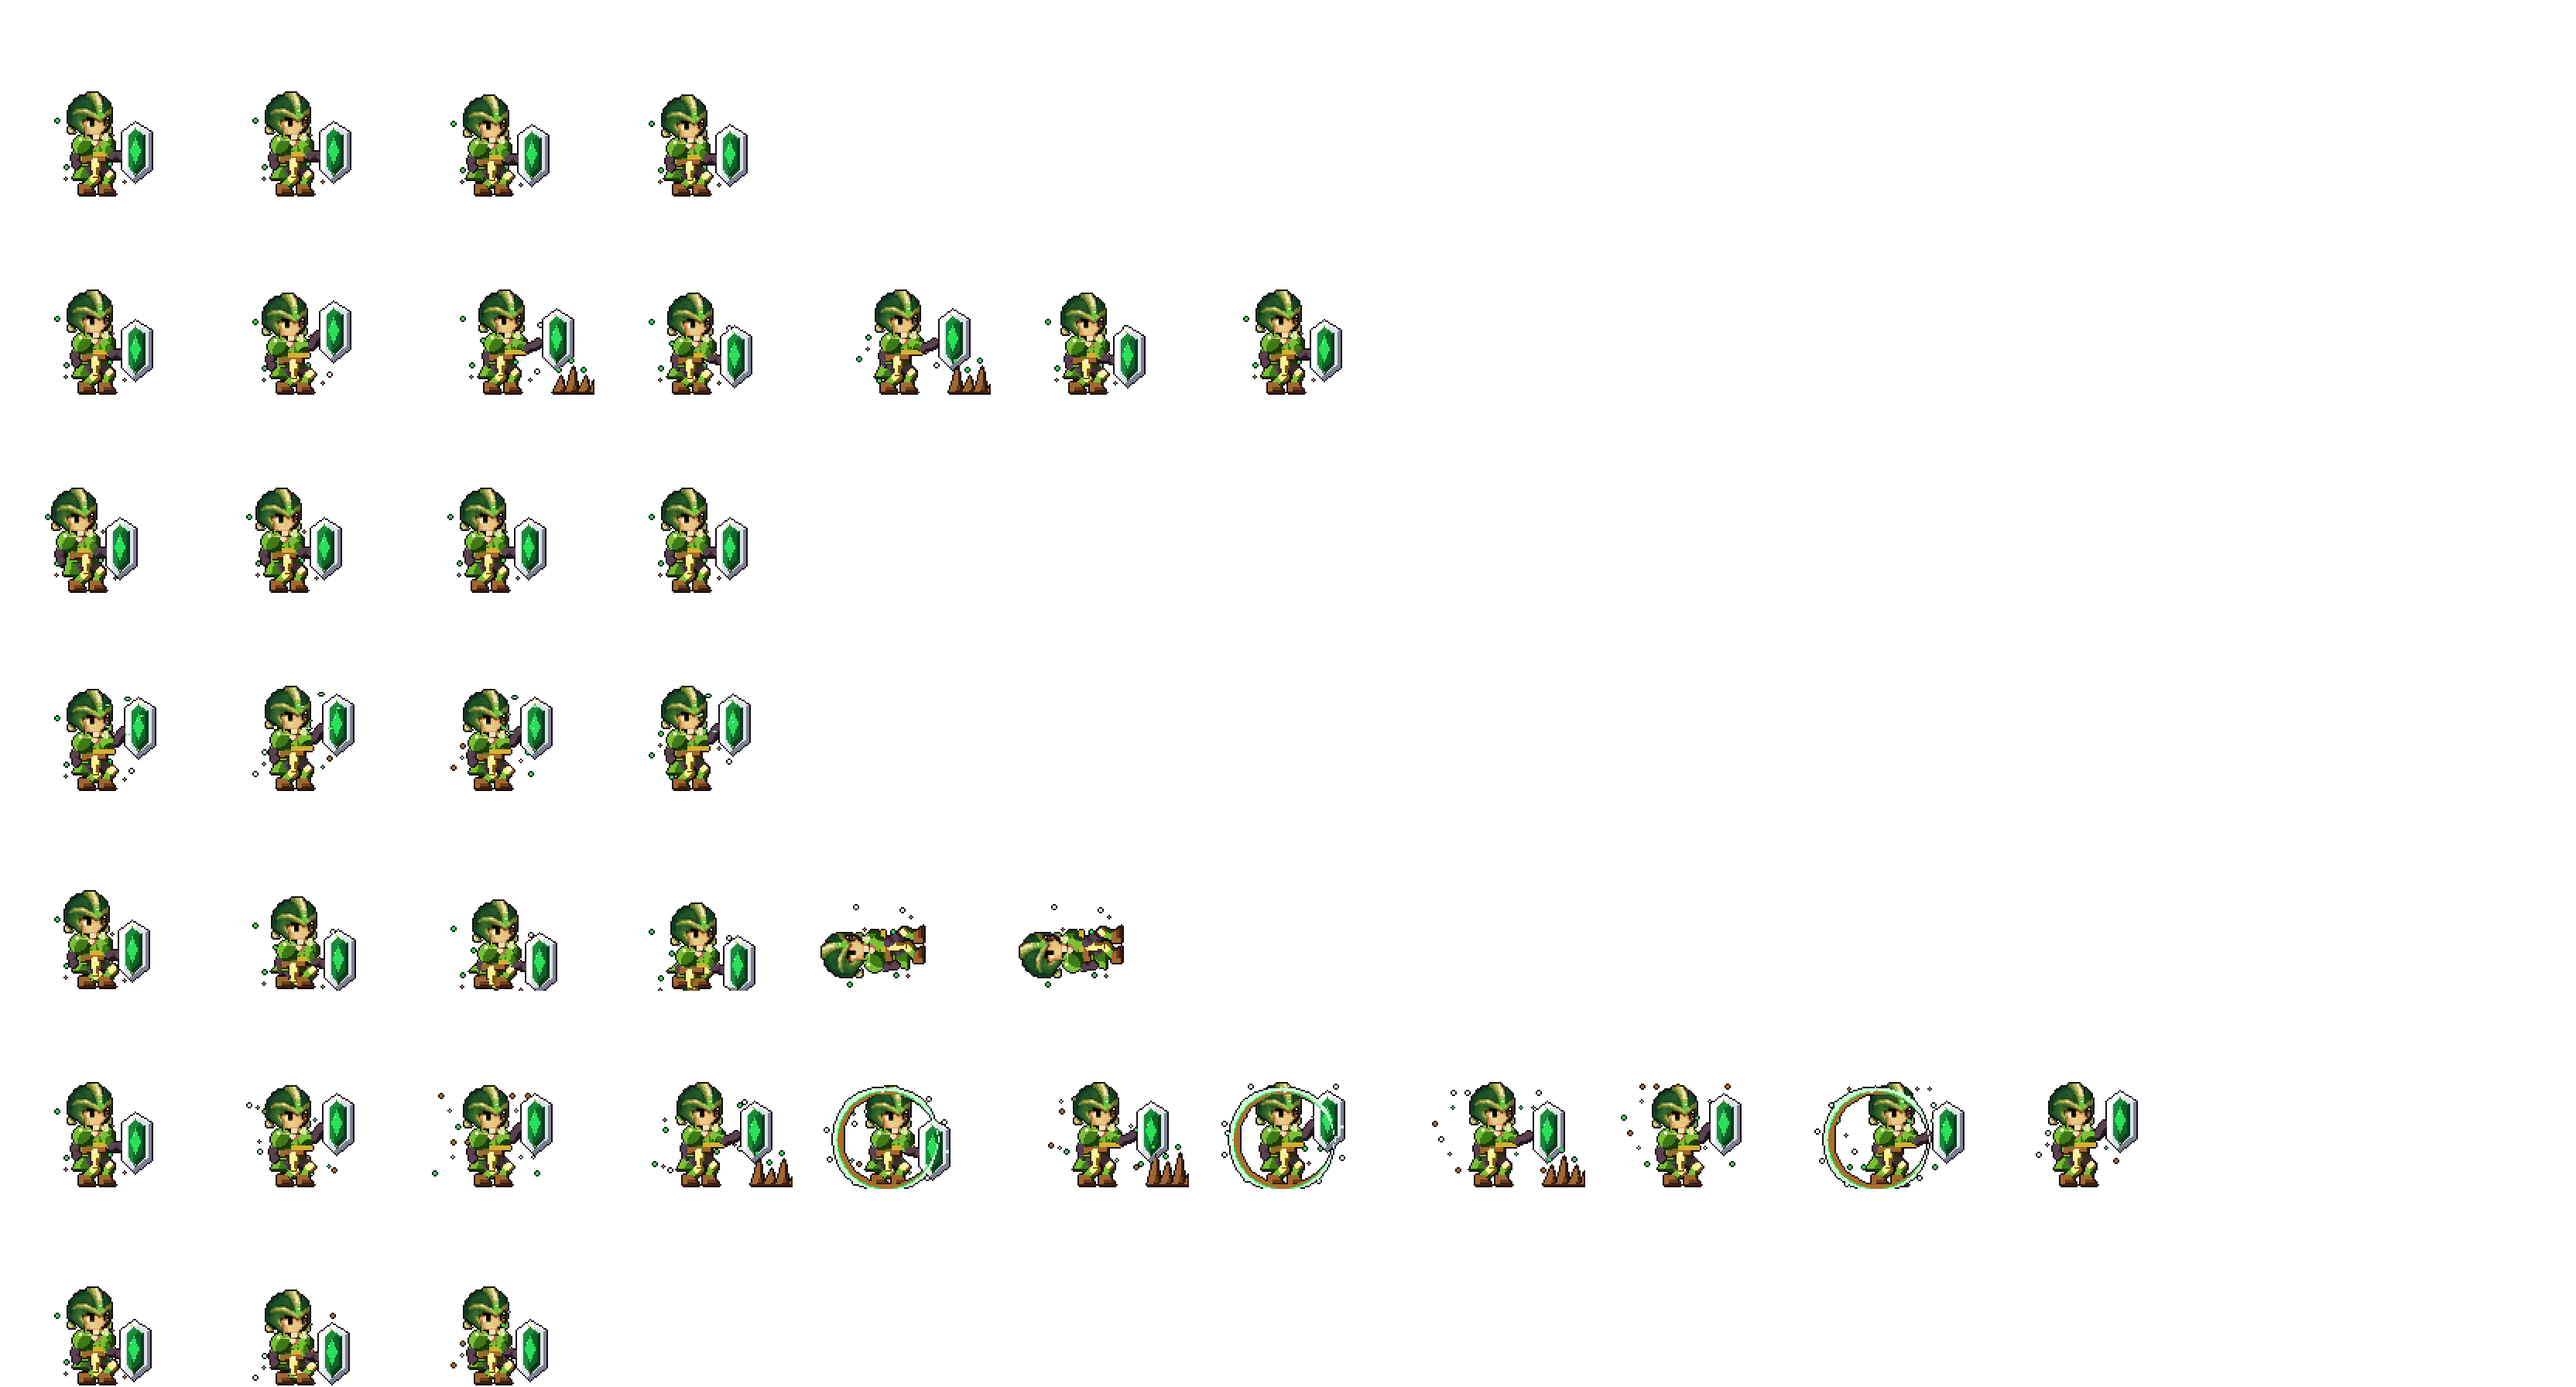
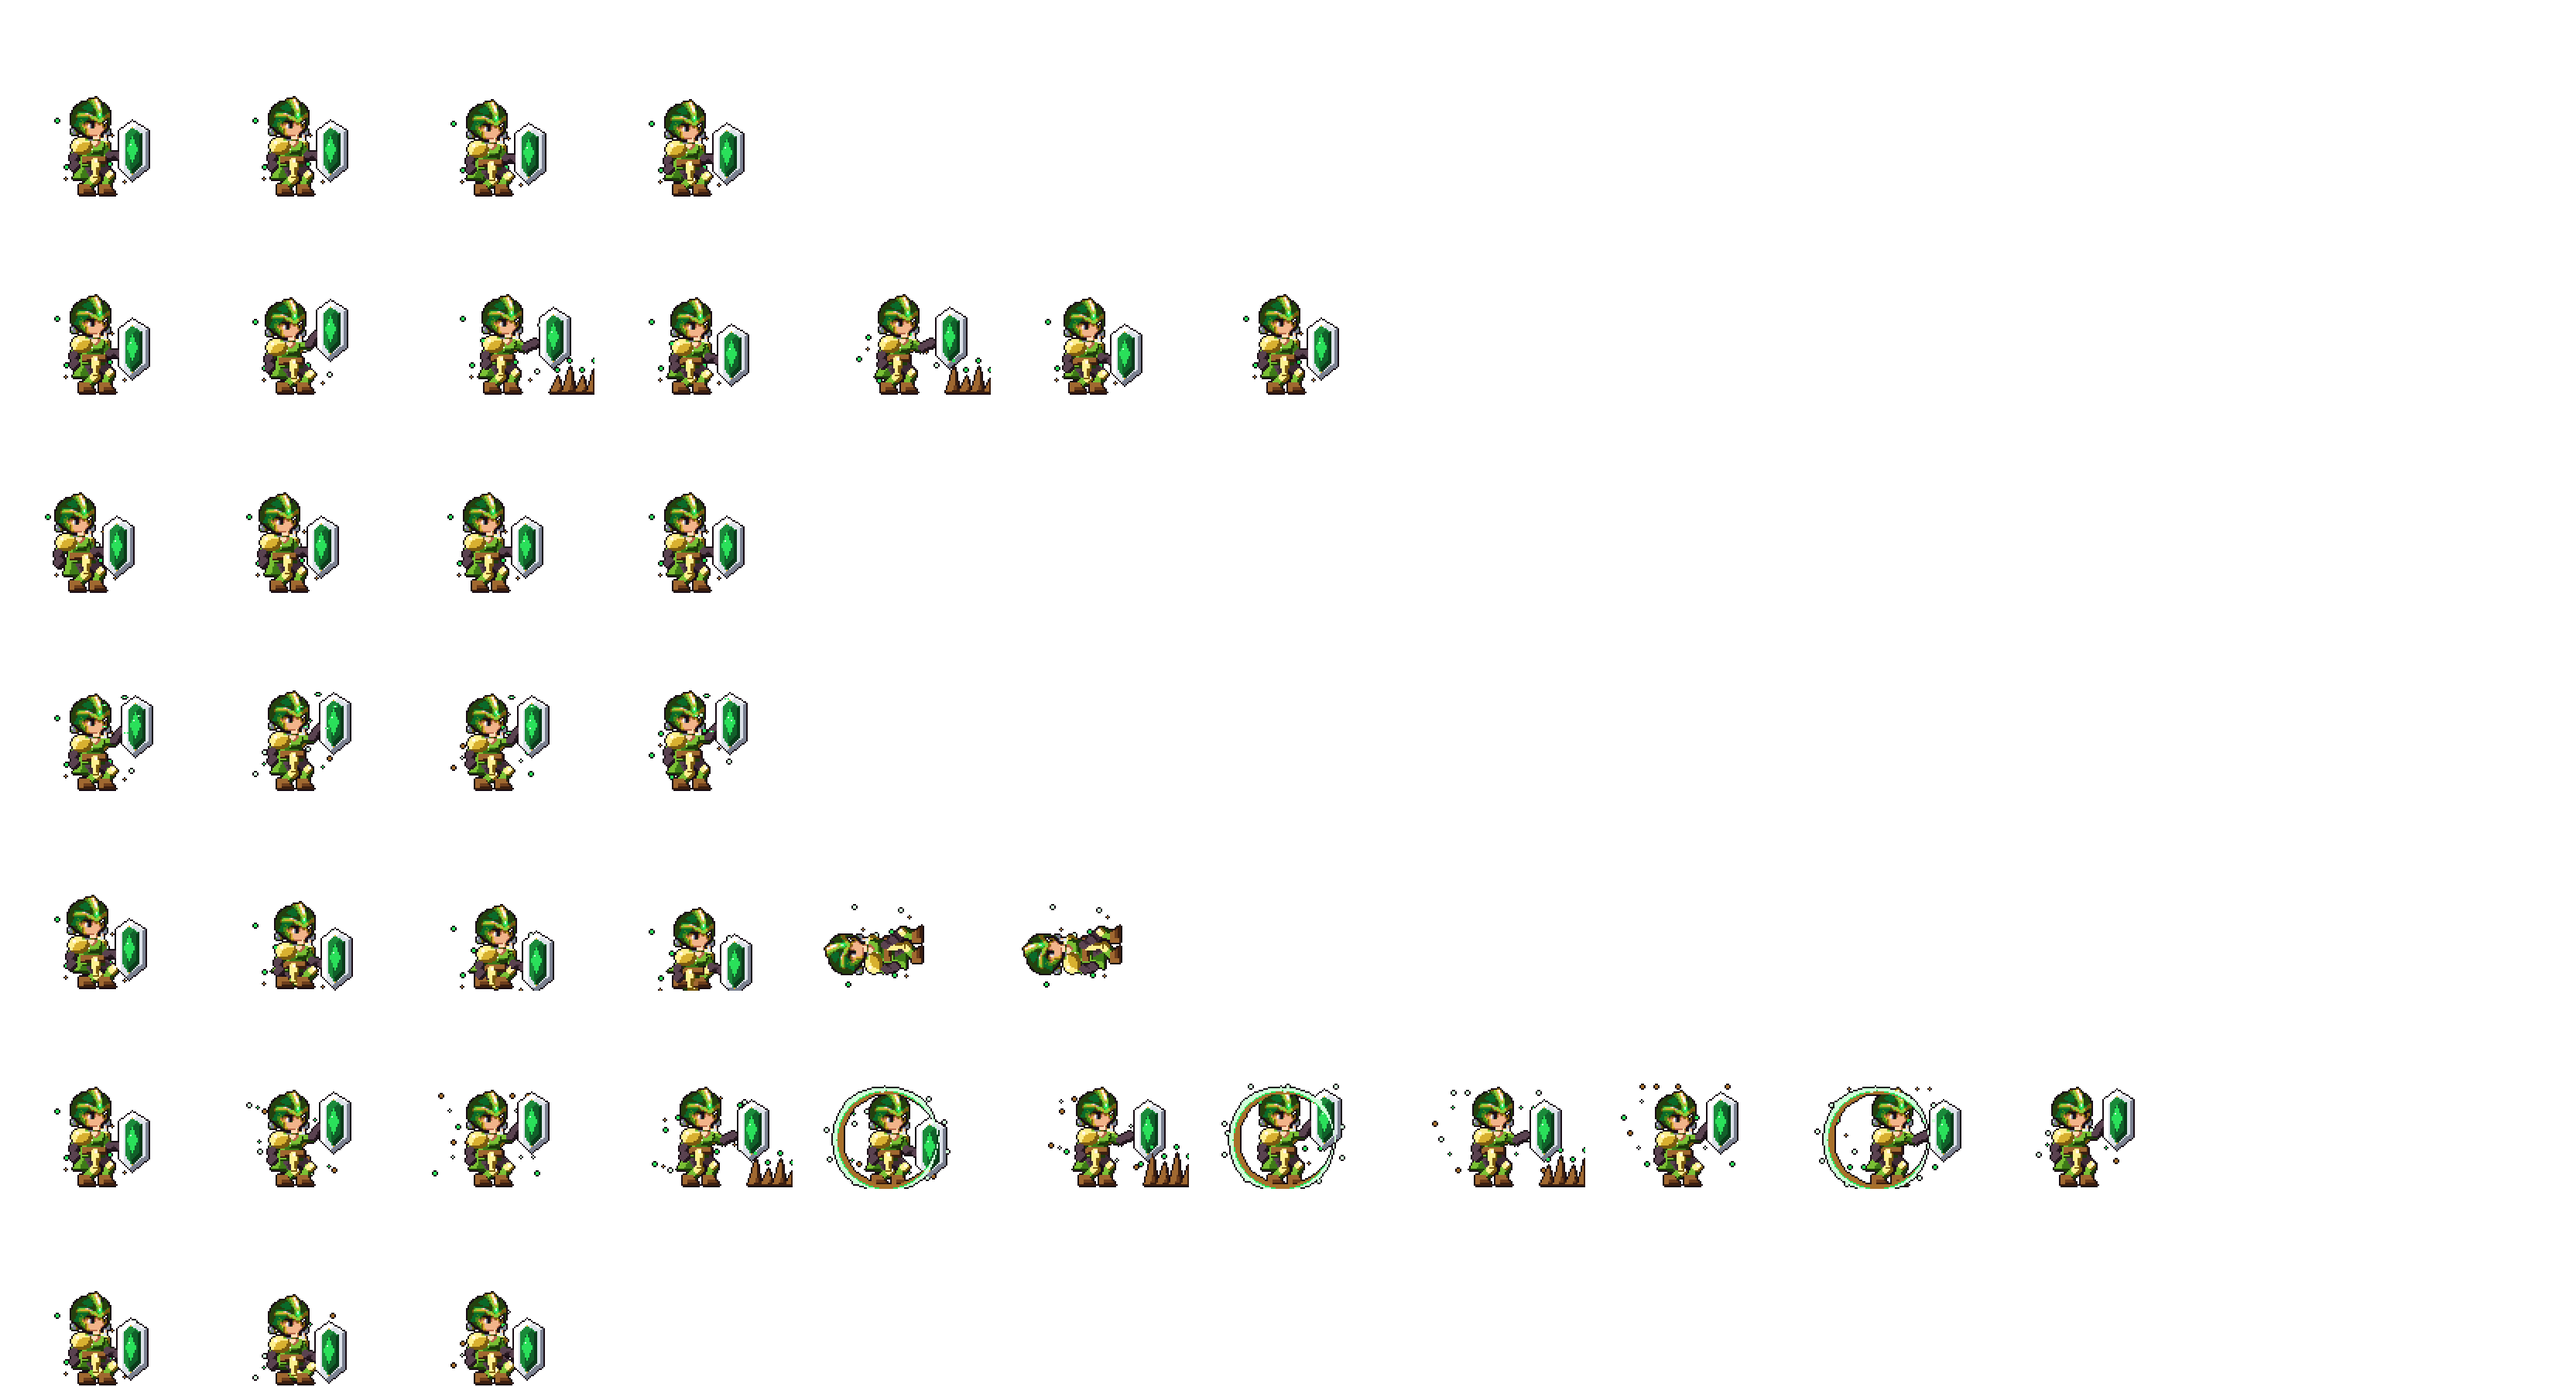
Heroes: 3/4 shoulders (near pauldron + arm in front, weapon shoulder tucked behind the chest), heads scaled to the body and repainted in each hero's flat palette
Claude-Session: https://claude.ai/code/session_018FD9XXPN18zgpdgkPrG4jT

diff --git a/tools/hero_art.py b/tools/hero_art.py
@@ -46,22 +46,30 @@ HEAD_BOX = {'kael_emberclaw': (108, 90, 173, 148, 150), 'kael_blazeheart': (118,
 _heads = {}
 
 
+HEAD_SCALE = 0.44                 # head : body ratio (owner heads were drawn for a smaller body)
+
+
 def head_img(form):
-    """-> (image, face_x) : the form's own head from the owner's idle frame at half size, colours quantised."""
+    """-> (image, face_x) : the form's own head from the owner's idle frame, scaled to the rig and repainted with the
+    hero's flat palette so it is shaded like the body (no traced noise)."""
     if form not in _heads:
         import import_heroes as H
+        from PIL import ImageFilter
         cell = H.cells(os.path.join(os.path.dirname(__file__), 'art_src', form + '.png'))[0][0]
         x0, y0, x1, y1, fx = HEAD_BOX[form]
-        im = cell.crop((x0, y0, x1 + 1, y1 + 1))
-        im = im.convert('RGBa').resize(((x1 - x0 + 1) // 2, (y1 - y0 + 1) // 2), Image.LANCZOS).convert('RGBA')
-        a = np.array(im)
-        a[..., 3] = np.where(a[..., 3] >= 140, 255, 0)
-        rgb = np.array(Image.fromarray(a[..., :3]).quantize(24, method=Image.Quantize.MEDIANCUT).convert('RGB'))
-        alpha = a[..., 3].copy()
-        cx = int((fx - x0) / 2)
-        alpha[-5:, :max(0, cx - 8)] = 0          # collar / pauldron bits below the jaw belong to the old body
-        alpha[-5:, cx + 8:] = 0
-        _heads[form] = (Image.fromarray(np.dstack([rgb, alpha]).astype(np.uint8), 'RGBA'), (fx - x0) / 2)
+        im = cell.crop((x0, y0, x1 + 1, y1 + 1)).filter(ImageFilter.MedianFilter(3))
+        w, h = round((x1 - x0 + 1) * HEAD_SCALE), round((y1 - y0 + 1) * HEAD_SCALE)
+        a = np.array(im.convert('RGBa').resize((w, h), Image.LANCZOS).convert('RGBA')).astype(int)
+        alpha = np.where(a[..., 3] >= 140, 255, 0)
+        hero = form.split('_')[0]
+        f, el = HEROES[hero]['forms'][form], HEROES[hero]['element']
+        pal = np.array([c[:3] for c in [LINE, EYE, WHITE] + SKIN + f['hair'] + f['trim'] + f['metal'] + GEM[el]])
+        d = ((a[..., None, :3] - pal[None, None]) ** 2).sum(-1)
+        rgb = pal[d.argmin(-1)]
+        cx = int((fx - x0) * HEAD_SCALE)
+        alpha[-4:, :max(0, cx - 7)] = 0          # collar / pauldron bits below the jaw belong to the old body
+        alpha[-4:, cx + 7:] = 0
+        _heads[form] = (Image.fromarray(np.dstack([rgb, alpha]).astype(np.uint8), 'RGBA'), (fx - x0) * HEAD_SCALE)
     return _heads[form]
 
 
@@ -239,7 +247,8 @@ def skeleton(p):
     pelvis = (CX + bx, PELVIS_Y + by)
     chest = (pelvis[0] + lean, pelvis[1] - TORSO)
     J = dict(pelvis=pelvis, chest=chest, neck=(chest[0] + 0.5, chest[1] - 1))
-    J['fsh'], J['bsh'] = (chest[0] + 3.2, chest[1] + 0.8), (chest[0] - 3.2, chest[1] + 0.8)
+    # 3/4 view facing right: near shoulder (b, screen-left) wide and in front, far shoulder (f) tucked behind the chest
+    J['fsh'], J['bsh'] = (chest[0] + 2.4, chest[1] + 0.6), (chest[0] - 3.8, chest[1] + 1.0)
     for side, foot_x in (('f', CX + bx + 3.2 + sp), ('b', CX + bx - 3.2 - sp)):
         hj = (pelvis[0] + (1.4 if side == 'f' else -1.4), pelvis[1])
         ankle = (foot_x, FEET - 1.2)
@@ -272,11 +281,12 @@ def draw(hero, form, p):
     if tier >= 4 and not robe:   # short cape behind the back
         c.part(lambda d: d.polygon([(neck[0] - 3, neck[1] + 1), (neck[0] + 1, neck[1] + 1), (hip[0] - 1 - sway, FEET - 4),
                                     (hip[0] - 7 - sway, FEET - 5)]), f['cloth'])
-    # back arm (behind the body)
-    sleeve = f['cloth'] if robe else f['cloth']
-    c.part(lambda d: taper(d, bsh, J['belbow'], 2.8, 2.4), sleeve)
-    c.part(lambda d: taper(d, J['belbow'], bhand, 2.4, 2.2), SKIN if robe else DARKCLOTH)
-    c.part(lambda d: d.ellipse([bhand[0] - 1.3, bhand[1] - 1.3, bhand[0] + 1.3, bhand[1] + 1.3]), SKIN if robe else DARKCLOTH)
+    pr = 2.3 + (tier - 3) * 0.45                    # pauldrons grow with each form
+    pal = f['metal'] if robe else f['trim']
+    glove = SKIN if robe else DARKCLOTH
+    # far (weapon) shoulder: small pauldron + upper arm behind the chest
+    c.part(lambda d: d.ellipse([fsh[0] - pr * 0.7, fsh[1] - pr * 0.7, fsh[0] + pr * 0.7, fsh[1] + pr * 0.7]), pal, shade='metal')
+    c.part(lambda d: taper(d, fsh, J['felbow'], 2.6, 2.4), f['cloth'])
     # legs: thigh -> knee -> shin -> boot (back leg first)
     for side in ('b', 'f'):
         hj, kn, an = J[side + 'hip'], J[side + 'knee'], J[side + 'ankle']
@@ -290,7 +300,7 @@ def draw(hero, form, p):
     sh_w, waist_w, hip_w = 5.0, 3.2, 3.6
     waist = (hip[0] + (chest[0] - hip[0]) * 0.35, hip[1] - TORSO * 0.35)
     if robe:
-        c.part(lambda d: d.polygon([(chest[0] - sh_w + 0.6, chest[1]), (chest[0] + sh_w - 0.6, chest[1]), (waist[0] + waist_w, waist[1]),
+        c.part(lambda d: d.polygon([(chest[0] - sh_w, chest[1]), (chest[0] + sh_w - 1.6, chest[1]), (waist[0] + waist_w - 0.4, waist[1]),
                                     (hip[0] + 6.5, FEET - 0.5), (hip[0] - 7 - sway, FEET - 0.5), (waist[0] - waist_w, waist[1])]),
                f['cloth'])
         c.part(lambda d: d.polygon([(waist[0] - 0.6, waist[1]), (waist[0] + 1.2, waist[1]), (hip[0] + 3.5, FEET - 0.5),
@@ -299,22 +309,22 @@ def draw(hero, form, p):
                                     (hip[0] - 7 - sway, FEET - 0.5)]), f['trim'], shade=False)    # hem
         c.part(lambda d: d.rectangle([waist[0] - waist_w, waist[1] - 0.6, waist[0] + waist_w, waist[1] + 0.4]), f['trim'], shade=False)
     else:
-        c.part(lambda d: d.polygon([(chest[0] - sh_w, chest[1]), (chest[0] + sh_w, chest[1]), (waist[0] + waist_w, waist[1]),
-                                    (hip[0] + hip_w, hip[1] + 0.8), (hip[0] - hip_w, hip[1] + 0.8), (waist[0] - waist_w, waist[1])]),
+        c.part(lambda d: d.polygon([(chest[0] - sh_w, chest[1]), (chest[0] + sh_w - 1.6, chest[1]), (waist[0] + waist_w - 0.4, waist[1]),
+                                    (hip[0] + hip_w - 0.4, hip[1] + 0.8), (hip[0] - hip_w, hip[1] + 0.8), (waist[0] - waist_w, waist[1])]),
                f['cloth'])
-        c.part(lambda d: d.polygon([(chest[0] - 2.4, chest[1] + 0.8), (chest[0] + 2.8, chest[1] + 0.8), (chest[0] + 2.2, chest[1] + 3.6),
-                                    (chest[0] - 1.8, chest[1] + 3.6)]), f['cloth'], shade='metal')   # breastplate
+        c.part(lambda d: d.polygon([(chest[0] - 1.6, chest[1] + 0.8), (chest[0] + 3.0, chest[1] + 0.8), (chest[0] + 2.4, chest[1] + 3.6),
+                                    (chest[0] - 1.0, chest[1] + 3.6)]), f['cloth'], shade='metal')   # breastplate
         c.part(lambda d: d.rectangle([waist[0] - waist_w - 0.2, hip[1] - 1.6, waist[0] + waist_w + 0.4, hip[1] - 0.4]),
                BROWN if hero == 'thorne' else DARKCLOTH)                                          # belt
         c.part(lambda d: d.ellipse([hip[0] - 0.9, hip[1] - 1.9, hip[0] + 1.3, hip[1] - 0.1]), f['trim'], shade='metal')
         c.part(lambda d: d.polygon([(hip[0] - 0.6, hip[1] - 0.2), (hip[0] + 1.6, hip[1] - 0.2), (hip[0] + 1.2, hip[1] + 4.5),
                                     (hip[0] - 0.2, hip[1] + 4.5)]), f['trim'])                     # tabard
-    # pauldrons (grow with each form)
-    pr = 2.3 + (tier - 3) * 0.45
-    pal = f['metal'] if robe else f['cloth']
-    c.part(lambda d: d.ellipse([bsh[0] - pr - 0.4, bsh[1] - pr, bsh[0] + pr - 0.4, bsh[1] + pr]), pal, shade='metal')
-    c.part(lambda d: d.ellipse([fsh[0] - pr, fsh[1] - pr, fsh[0] + pr, fsh[1] + pr]), pal, shade='metal')
-    c.part(lambda d: d.rectangle([fsh[0] - pr, fsh[1] + pr - 0.8, fsh[0] + pr, fsh[1] + pr]), f['trim'], shade=False)
+    # near arm in front of the torso, big pauldron over its shoulder
+    c.part(lambda d: taper(d, bsh, J['belbow'], 3.0, 2.6), f['cloth'])
+    c.part(lambda d: taper(d, J['belbow'], bhand, 2.6, 2.3), glove)
+    c.part(lambda d: d.ellipse([bhand[0] - 1.4, bhand[1] - 1.4, bhand[0] + 1.4, bhand[1] + 1.4]), glove)
+    c.part(lambda d: d.ellipse([bsh[0] - pr - 0.3, bsh[1] - pr * 0.8, bsh[0] + pr, bsh[1] + pr * 0.75]), pal, shade='metal')
+    c.part(lambda d: d.ellipse([bsh[0] - 0.6, bsh[1] - 0.6, bsh[0] + 0.6, bsh[1] + 0.6]), f['trim'], shade=False)   # rivet
     # head
     img, fx = head_img(form)
     c.part(lambda d: taper(d, (neck[0], neck[1] + 1), (neck[0] + 0.3, neck[1] - 1.2), 2.2, 2.0), SKIN)   # neck
@@ -327,10 +337,9 @@ def draw(hero, form, p):
                 c.img[hy0 + yy, hx0 + xx] = a[yy, xx]
                 c.solid[hy0 + yy, hx0 + xx] = True
     # front arm + held item
-    def front_arm():
-        c.part(lambda d: taper(d, fsh, J['felbow'], 2.9, 2.5), f['cloth'])
-        c.part(lambda d: taper(d, J['felbow'], fhand, 2.6, 2.3), SKIN if robe else DARKCLOTH)
-        c.part(lambda d: d.ellipse([fhand[0] - 1.4, fhand[1] - 1.4, fhand[0] + 1.4, fhand[1] + 1.4]), SKIN if robe else DARKCLOTH)
+    def front_arm():   # far arm's forearm + hand reach forward past the chest
+        c.part(lambda d: taper(d, J['felbow'], fhand, 2.5, 2.2), glove)
+        c.part(lambda d: d.ellipse([fhand[0] - 1.3, fhand[1] - 1.3, fhand[0] + 1.3, fhand[1] + 1.3]), glove)
     if p.get('no_item'):   # knocked out: the weapon has fallen
         front_arm()
     elif item == 'shield':
